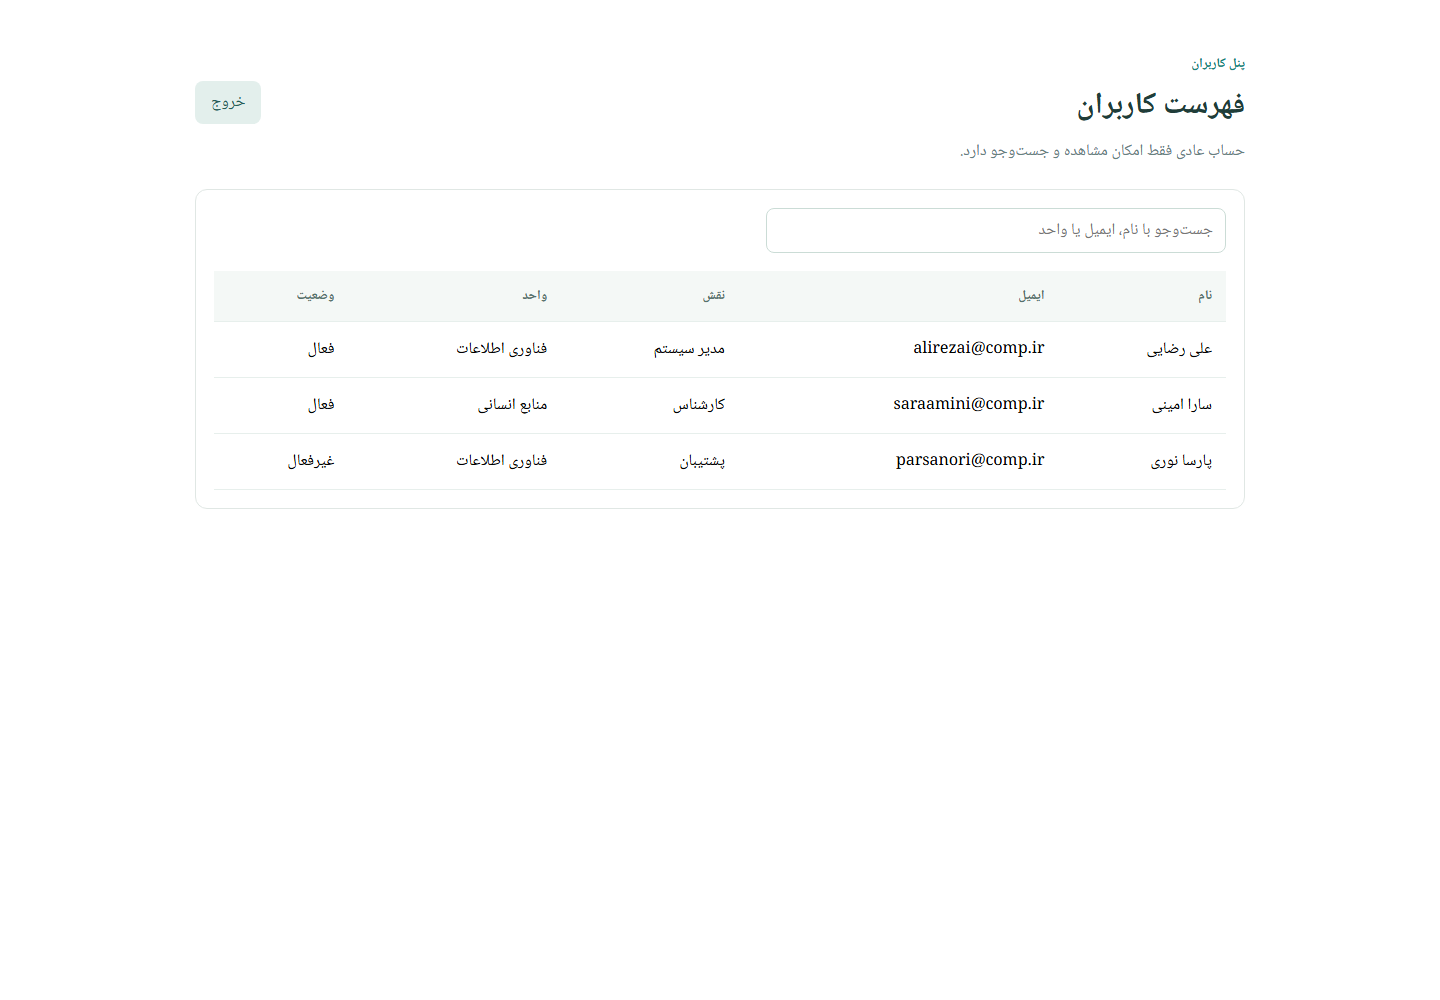
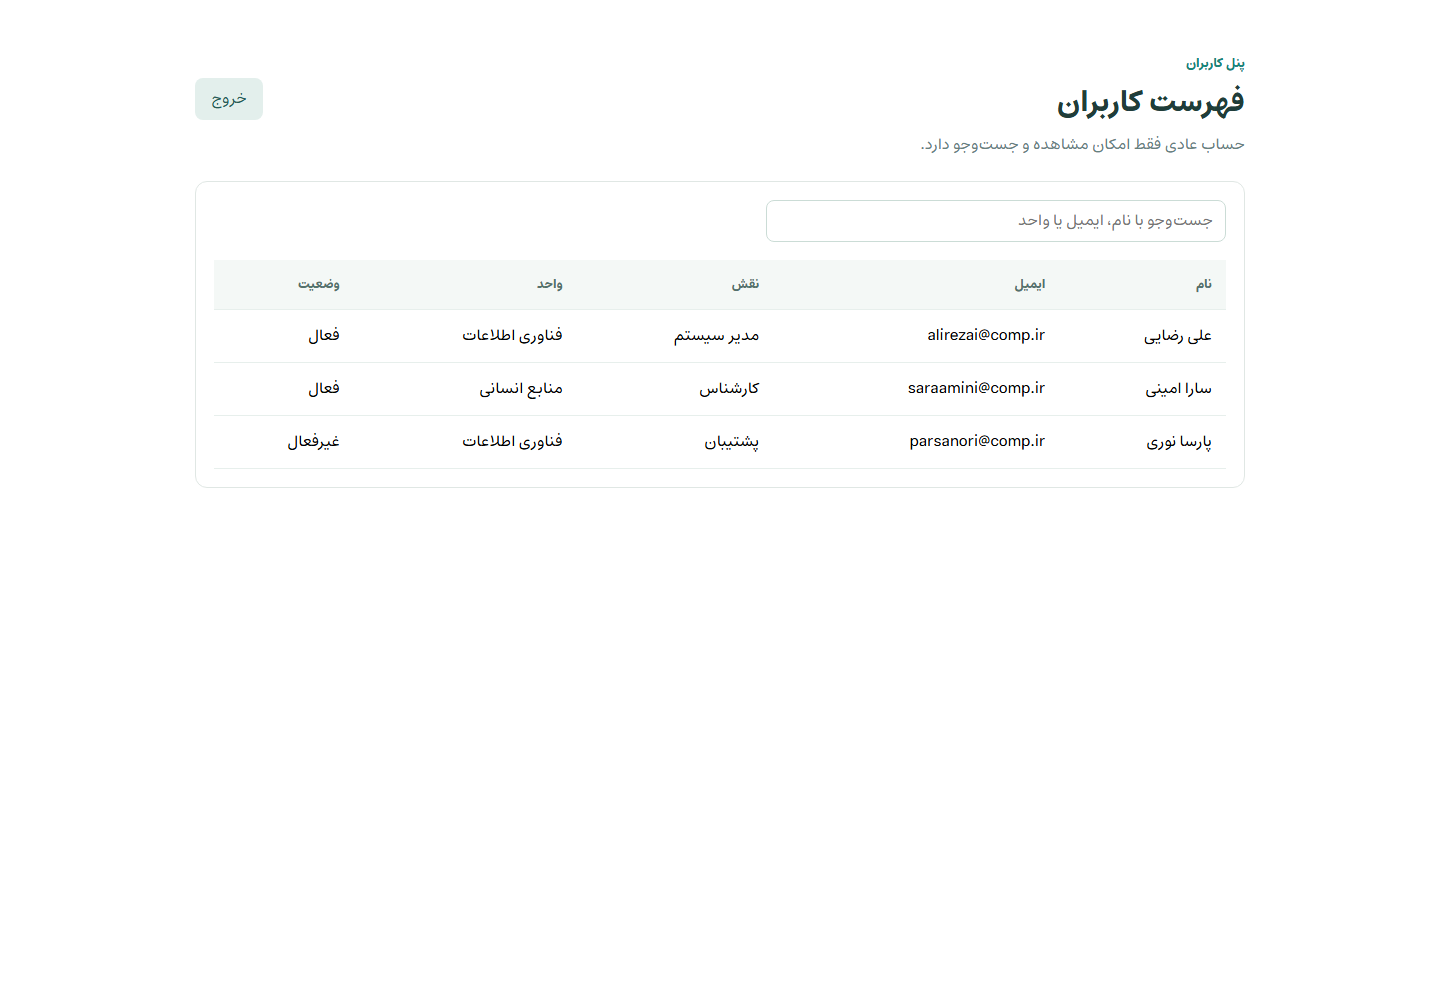
Use clean Estedad font and refresh README screenshots

diff --git a/src/styles.css b/src/styles.css
@@ -1,9 +1,11 @@
-@import '@fontsource/noto-naskh-arabic/400.css';
-@import '@fontsource/noto-naskh-arabic/700.css';
+@import '@fontsource/estedad/400.css';
+@import '@fontsource/estedad/500.css';
+@import '@fontsource/estedad/600.css';
+@import '@fontsource/estedad/700.css';
 
 html,
 body {
   min-height: 100%;
   margin: 0;
-  font-family: "Noto Naskh Arabic", "Times New Roman", serif;
+  font-family: "Estedad", Tahoma, Arial, sans-serif;
 }

diff --git a/src/app/app.css b/src/app/app.css
@@ -3,7 +3,7 @@
   min-height: 100vh;
   color: #173b3b;
   background: #f2f7f5;
-  font-family: "Noto Naskh Arabic", "Times New Roman", serif;
+  font-family: "Estedad", Tahoma, Arial, sans-serif;
 }
 
 * { box-sizing: border-box; }
